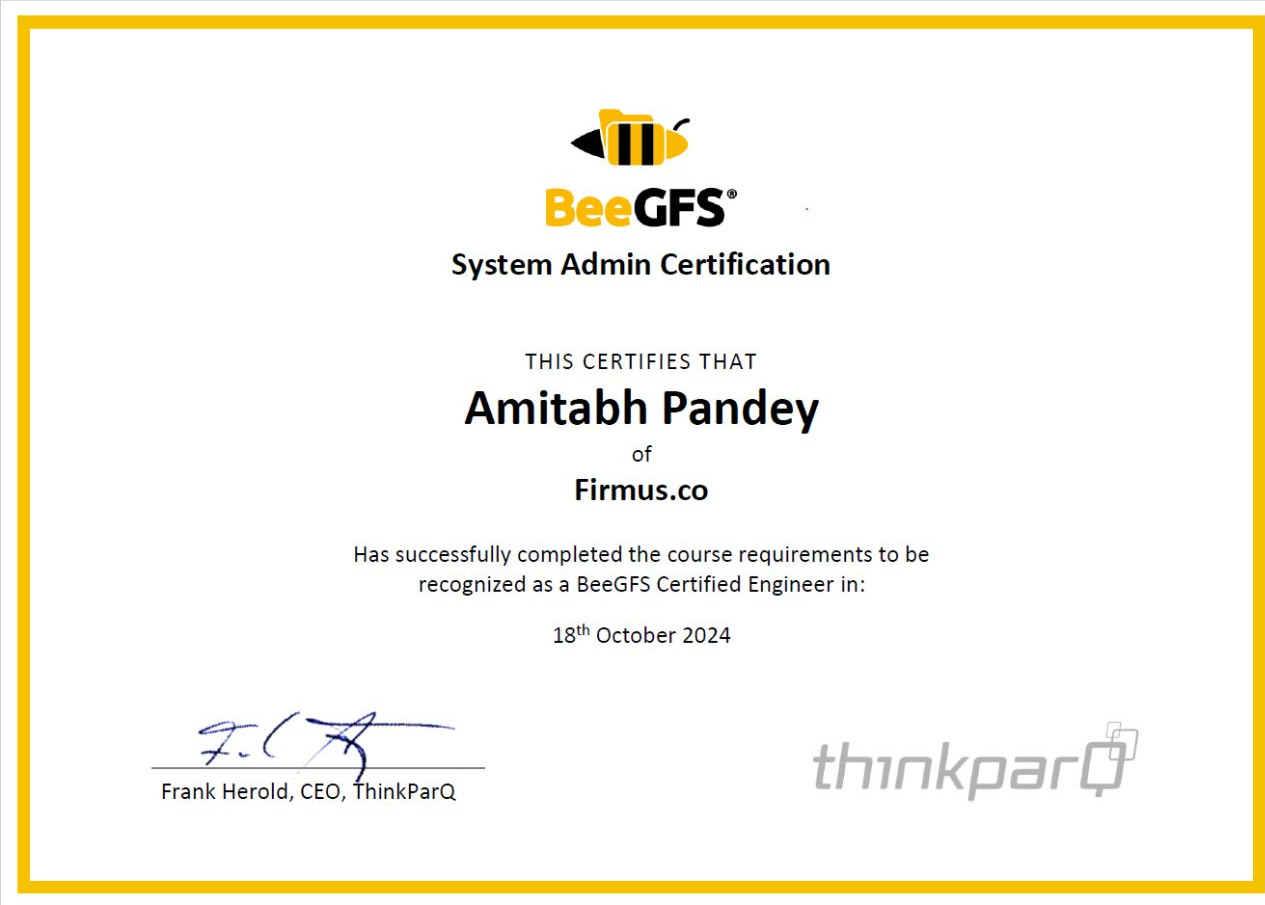
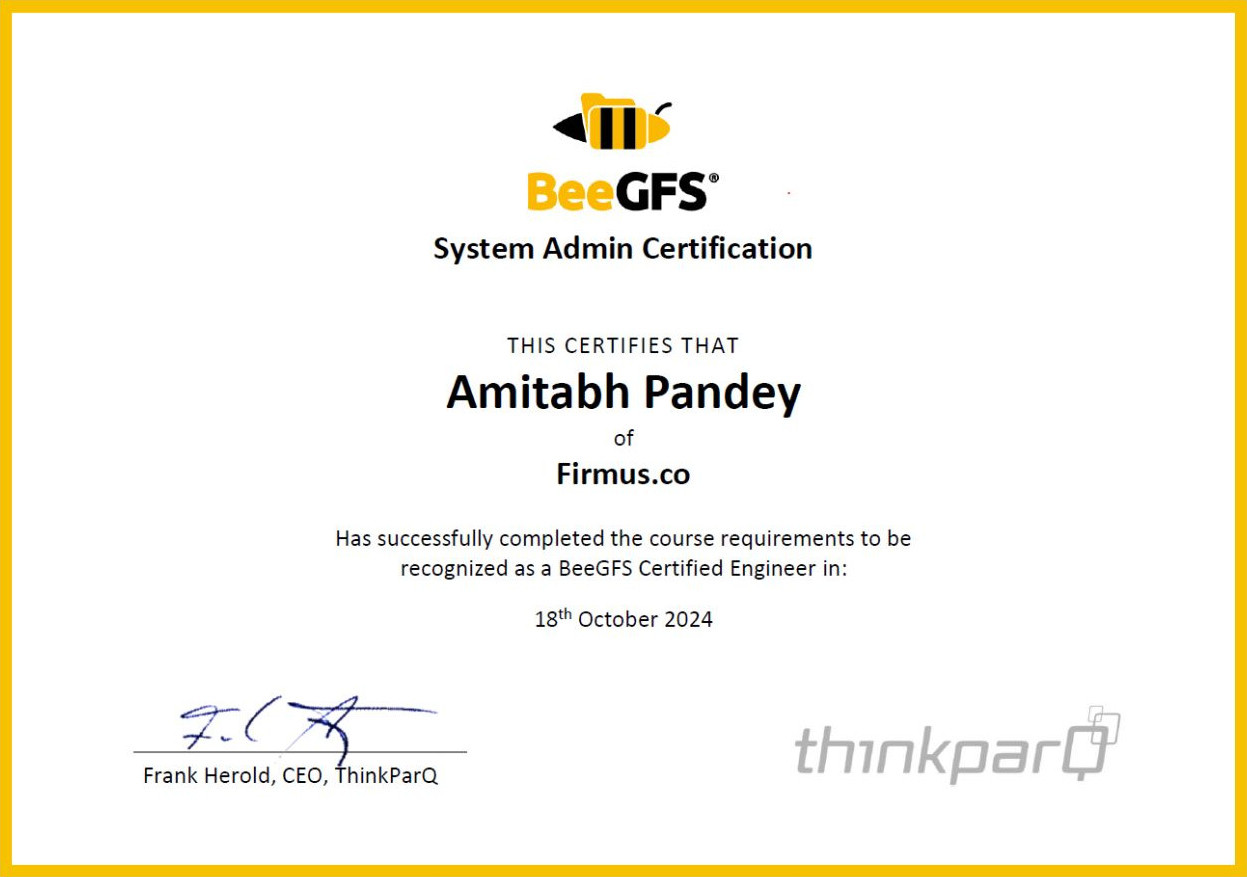
Certificates: Bright wall, gold frames, shine and verified seal
- Bright Computing full-width certificate wall (4 certificates) with
  gallery lightbox (prev/next, arrow keys, captions)
- Lightbox sized to the image; cropped Bright and BeeGFS certificates
- Gold frame on dark spotlight, shine sweep and gold verified seal
- Bright Computing logo variant for dark mode

Claude-Session: https://claude.ai/code/session_01EoHFDgtaDYdhuX6W5s85aN

diff --git a/index.html b/index.html
@@ -2871,6 +2871,71 @@ html[data-theme="dark"] .s6-cl-lg { border-color: rgb(255 255 255 / .12); }
 .cert-lb-x { position: absolute; top: 16px; right: 18px; width: 44px; height: 44px; border-radius: 50%; border: 0; background: #fff; color: #0d1b33; font: 700 18px/1 system-ui, sans-serif; cursor: pointer; }
 .cert-lb-x:focus-visible { outline: 3px solid var(--blue); outline-offset: 2px; }
 @media (prefers-reduced-motion: reduce) { .hpc-cert { transition: none; } .hpc:hover .hpc-cert { transform: rotate(-1.5deg); } }
+
+/* v74 Bright: full-width certificate wall; BeeGFS + WEKA as a pair above */
+.hpc-grid:has(.hpc.is-wall) { grid-template-columns: repeat(2, minmax(0, 1fr)); }
+.hpc.is-wall { grid-column: 1 / -1; display: grid; grid-template-columns: minmax(0, .8fr) minmax(0, 2fr); }
+.hpc.is-wall .hpc-body { justify-content: center; padding: 22px 24px; }
+.hpc-wall-logo { display: block; width: 170px; height: auto; margin: -26px 0 -10px -16px; }
+.hpc-wall-meta { margin-top: 4px; font: 500 12px var(--font-mono); letter-spacing: .04em; color: var(--blue); }
+.hpc-wall-gal { display: grid; grid-template-columns: repeat(4, minmax(0, 1fr)); gap: 14px; align-items: end; padding: 22px 18px; border-left: 1px solid var(--line-2); background: radial-gradient(circle at 50% 45%, var(--card) 25%, var(--blue-wash-2)); }
+.hpc-wall-gal figure { margin: 0; display: flex; flex-direction: column; gap: 9px; min-width: 0; }
+.hpc-wall-gal .hpc-cert { width: 100%; margin: 0; transform: none; box-shadow: 0 10px 22px -14px rgb(15 23 42 / .55); }
+.hpc.is-wall:hover .hpc-cert { transform: none; }
+.hpc-wall-gal .hpc-cert:hover { transform: translateY(-3px); box-shadow: 0 16px 30px -16px rgb(15 23 42 / .6); }
+.hpc-wall-gal figcaption { display: flex; flex-direction: column; gap: 1px; font-size: 13px; line-height: 1.3; }
+.hpc-wall-gal figcaption b { color: var(--ink); }
+.hpc-wall-gal figcaption span { font: 500 11.5px var(--font-mono); color: var(--blue); }
+@media (max-width: 1000px) { .hpc.is-wall { grid-template-columns: minmax(0, 1fr); } .hpc-wall-gal { border-left: 0; border-top: 1px solid var(--line-2); } }
+@media (max-width: 760px) { .hpc-grid:has(.hpc.is-wall) { grid-template-columns: minmax(0, 1fr); } .hpc-wall-gal { grid-template-columns: repeat(2, minmax(0, 1fr)); padding: 18px 16px; } }
+/* gallery controls in the certificate viewer */
+.cert-lb figure { margin: 0; display: flex; flex-direction: column; align-items: center; gap: 10px; }
+.cert-lb figcaption { color: #e2e8f0; font: 600 14px var(--font-body); text-align: center; }
+.cert-lb figcaption:empty { display: none; }
+.cert-lb-nav { position: absolute; top: 50%; translate: 0 -50%; width: 46px; height: 46px; border-radius: 50%; border: 0; background: #fff; color: #0d1b33; font: 700 22px/1 system-ui, sans-serif; cursor: pointer; }
+.cert-lb-nav[hidden] { display: none; }
+.cert-lb-prev { left: 16px; } .cert-lb-next { right: 16px; }
+.cert-lb-nav:focus-visible { outline: 3px solid var(--blue); outline-offset: 2px; }
+
+/* v74b tighter spacing across the Bright certificate wall */
+.hpc-wall-gal { gap: 10px; padding: 18px 10px; }
+@media (max-width: 760px) { .hpc-wall-gal { gap: 10px; padding: 16px 10px; } }
+
+/* v74c viewer: size the box to the certificate itself (no white side bands) */
+.cert-lb img { width: auto; height: auto; max-width: min(960px, 92vw); max-height: 82vh; object-fit: initial; background: none; }
+
+/* v74d Bright wall: uniform thumbnails, tops aligned, equal space above/below */
+.hpc-wall-gal { align-items: start; align-content: center; padding-top: 18px; padding-bottom: 18px; }
+.hpc-wall-gal .hpc-cert { aspect-ratio: 1133 / 779; overflow: hidden; }
+.hpc-wall-gal .hpc-cert img { width: 100%; height: 100%; object-fit: cover; object-position: center; }
+
+/* v75 certificates: F4 gold frame on dark spotlight + F5 shine sweep + F12 gold verified seal */
+.hpc-media.is-cert, .hpc-wall-gal { background: radial-gradient(70% 95% at 50% 0, #1e3a8a, #050a17 72%); border-color: #0b1226; }
+.hpc-media.is-cert { border-bottom-color: #0b1226; }
+.hpc-cert { position: relative; padding: 5px; border-radius: 5px; background: linear-gradient(135deg, #fde68a, #b45309 35%, #fef3c7 50%, #a16207 75%, #fde68a); box-shadow: 0 20px 40px -18px #000, 0 0 0 1px rgb(255 255 255 / .08); }
+.hpc-cert img { border-radius: 2px; }
+.hpc-wall-gal .hpc-cert { aspect-ratio: auto; overflow: visible; box-shadow: 0 20px 40px -18px #000, 0 0 0 1px rgb(255 255 255 / .08); }
+.hpc-wall-gal .hpc-cert img { aspect-ratio: 1133 / 779; height: auto; object-fit: cover; }
+.hpc-cert::before { content: ""; position: absolute; inset: 5px; z-index: 1; border-radius: 2px; pointer-events: none; background: linear-gradient(115deg, transparent 40%, rgb(255 255 255 / .7) 50%, transparent 60%) no-repeat; background-size: 250% 100%; background-position: 160% 0; }
+.hpc-cert::after { content: "\2713"; position: absolute; right: -9px; top: -9px; z-index: 2; width: 28px; height: 28px; display: grid; place-items: center; border-radius: 50%; color: #fff; font: 800 13px/1 var(--font-body); background: radial-gradient(circle at 35% 35%, #fde68a, #d97706 60%, #92400e); box-shadow: 0 0 0 2.5px #fff, 0 6px 12px -4px rgb(0 0 0 / .5); }
+.hpc-wall-gal figcaption b { color: #fff; }
+.hpc-wall-gal figcaption span { color: #facc15; }
+.hpc-wall-gal .hpc-cert:hover, .hpc.is-wall .hpc-cert:hover { transform: translateY(-4px); box-shadow: 0 26px 44px -18px #000, 0 0 22px -6px rgb(250 204 21 / .45); }
+@media (prefers-reduced-motion: no-preference) {
+  .hpc-cert::before { animation: cert-shine 6s ease-in-out infinite; }
+  .hpc-wall-gal figure:nth-child(2) .hpc-cert::before { animation-delay: .7s; }
+  .hpc-wall-gal figure:nth-child(3) .hpc-cert::before { animation-delay: 1.4s; }
+  .hpc-wall-gal figure:nth-child(4) .hpc-cert::before { animation-delay: 2.1s; }
+}
+@keyframes cert-shine { 0%, 60% { background-position: 160% 0; } 90%, 100% { background-position: -60% 0; } }
+.hpc-cert { box-sizing: border-box; }
+.hpc-wall-gal { gap: 18px; padding: 24px 22px; }
+@media (max-width: 760px) { .hpc-wall-gal { gap: 18px; padding: 22px 18px; } }
+
+/* v76b Bright logo: white-text variant in dark mode */
+.hpc-wall-logo.is-dark { display: none; }
+html[data-theme="dark"] .hpc-wall-logo:not(.is-dark) { display: none; }
+html[data-theme="dark"] .hpc-wall-logo.is-dark { display: block; }
 </style>
 <script>document.documentElement.classList.add("js-brand");</script>
 </head>
@@ -3376,7 +3441,7 @@ html[data-theme="dark"] .s6-cl-lg { border-color: rgb(255 255 255 / .12); }
                 <div class="hpc-grid">
                     <article class="hpc">
                         <!-- Official product logo; a public engineer badge was not available. -->
-                        <div class="hpc-media is-cert"><button type="button" class="hpc-cert" data-cert="images/certs/beegfs-certificate.jpg" aria-label="View BeeGFS certificate full size"><img src="images/certs/beegfs-certificate.jpg" alt="BeeGFS System Admin Certification for Amitabh Pandey, 18 October 2024" width="1265" height="905" loading="lazy" decoding="async" /></button><span class="hpc-chip"><img src="badges/beegfs-logo.png" alt="BeeGFS logo" width="158" height="100" loading="lazy" /></span></div>
+                        <div class="hpc-media is-cert"><button type="button" class="hpc-cert" data-cert="images/certs/beegfs-certificate.jpg" aria-label="View BeeGFS certificate full size"><img src="images/certs/beegfs-certificate.jpg" alt="BeeGFS System Admin Certification for Amitabh Pandey, 18 October 2024" width="1247" height="877" loading="lazy" decoding="async" /></button><span class="hpc-chip"><img src="badges/beegfs-logo.png" alt="BeeGFS logo" width="158" height="100" loading="lazy" /></span></div>
                         <div class="hpc-body">
                             <span class="cert-issuer">ThinkParQ</span>
                             <h4>BeeGFS</h4>
@@ -3401,19 +3466,20 @@ html[data-theme="dark"] .s6-cl-lg { border-color: rgb(255 255 255 / .12); }
                             </ul>
                         </div>
                     </article>
-                    <article class="hpc">
-                        <!-- Official issuer logo for the four historical Bright certifications. -->
-                        <div class="hpc-media is-wide"><img src="badges/bright-computing-logo.svg" alt="Bright Computing logo" width="300" height="169" loading="lazy" /></div>
+                    <article class="hpc is-wall">
                         <div class="hpc-body">
+                            <img class="hpc-wall-logo" src="badges/bright-computing-logo.svg" alt="Bright Computing logo" width="300" height="169" loading="lazy" />
+                            <img class="hpc-wall-logo is-dark" src="badges/bright-computing-logo-dark.svg" alt="" aria-hidden="true" width="300" height="169" loading="lazy" />
                             <span class="cert-issuer">Bright Computing · now NVIDIA</span>
                             <h4>Bright Cluster Manager</h4>
                             <p>HPC cluster provisioning and management, now NVIDIA Base Command Manager.</p>
-                            <ul class="hpc-items is-two">
-                                <li><b>Basic Admin</b><span>Aug 2021</span></li>
-                                <li><b>OpenStack</b><span>Aug 2021</span></li>
-                                <li><b>Data Science</b><span>Aug 2021</span></li>
-                                <li><b>Bright 8.0 Admin</b><span>Apr 2020</span></li>
-                            </ul>
+                            <span class="hpc-wall-meta">4 certifications · 2020 – 2021</span>
+                        </div>
+                        <div class="hpc-wall-gal">
+                            <figure><button type="button" class="hpc-cert" data-cert="images/certs/bright-admin-2021.jpg" data-group="bright" data-cap="Bright Cluster Manager Basic Administration · Aug 2021" aria-label="View certificate: Bright Cluster Manager Basic Administration"><img src="images/certs/bright-admin-2021.jpg" alt="Bright Cluster Manager Basic Administration certificate, Aug 2021" width="1133" height="779" loading="lazy" decoding="async" /></button><figcaption><b>Basic Admin</b><span>Aug 2021</span></figcaption></figure>
+                            <figure><button type="button" class="hpc-cert" data-cert="images/certs/bright-openstack-2021.jpg" data-group="bright" data-cap="Bright Cluster Manager for OpenStack · Aug 2021" aria-label="View certificate: Bright Cluster Manager for OpenStack"><img src="images/certs/bright-openstack-2021.jpg" alt="Bright Cluster Manager for OpenStack certificate, Aug 2021" width="1133" height="779" loading="lazy" decoding="async" /></button><figcaption><b>OpenStack</b><span>Aug 2021</span></figcaption></figure>
+                            <figure><button type="button" class="hpc-cert" data-cert="images/certs/bright-data-science-2021.jpg" data-group="bright" data-cap="Bright Cluster Manager for Data Science · Aug 2021" aria-label="View certificate: Bright Cluster Manager for Data Science"><img src="images/certs/bright-data-science-2021.jpg" alt="Bright Cluster Manager for Data Science certificate, Aug 2021" width="1133" height="779" loading="lazy" decoding="async" /></button><figcaption><b>Data Science</b><span>Aug 2021</span></figcaption></figure>
+                            <figure><button type="button" class="hpc-cert" data-cert="images/certs/bright-8-admin-2020.jpg" data-group="bright" data-cap="Bright 8.0 Basic Administration · Apr 2020" aria-label="View certificate: Bright 8.0 Basic Administration"><img src="images/certs/bright-8-admin-2020.jpg" alt="Bright 8.0 Basic Administration certificate, Apr 2020" width="1133" height="779" loading="lazy" decoding="async" /></button><figcaption><b>Bright 8.0 Admin</b><span>Apr 2020</span></figcaption></figure>
                         </div>
                     </article>
                 </div>
@@ -4283,20 +4349,29 @@ const els=[document.querySelector('.hr-rib'),...document.querySelectorAll('.hs-p
     let t; addEventListener('resize', () => { cancelAnimationFrame(t); t = requestAnimationFrame(fit); });
 })();
 </script>
-<div class="cert-lb" id="cert-lb" role="dialog" aria-modal="true" aria-label="Certificate" hidden><button type="button" class="cert-lb-x" aria-label="Close">&#10005;</button><img alt="" /></div>
+<div class="cert-lb" id="cert-lb" role="dialog" aria-modal="true" aria-label="Certificate" hidden><button type="button" class="cert-lb-x" aria-label="Close">&#10005;</button><button type="button" class="cert-lb-nav cert-lb-prev" aria-label="Previous certificate" hidden>&#8249;</button><figure><img alt="" /><figcaption></figcaption></figure><button type="button" class="cert-lb-nav cert-lb-next" aria-label="Next certificate" hidden>&#8250;</button></div>
 <script>
-/* Certificate viewer: click a certificate to see it full size */
+/* Certificate viewer: click a certificate to see it full size; grouped certificates get previous/next */
 (() => {
     const lb = document.getElementById('cert-lb'); if (!lb) return;
-    const img = lb.querySelector('img'), x = lb.querySelector('.cert-lb-x'); let last = null;
+    const img = lb.querySelector('img'), cap = lb.querySelector('figcaption'), x = lb.querySelector('.cert-lb-x');
+    const pv = lb.querySelector('.cert-lb-prev'), nx = lb.querySelector('.cert-lb-next');
+    let list = [], k = 0, last = null;
+    const show = () => { const b = list[k]; img.src = b.dataset.cert; img.alt = b.querySelector('img')?.alt || 'Certificate';
+        cap.textContent = b.dataset.cap ? b.dataset.cap + (list.length > 1 ? '  ·  ' + (k + 1) + ' / ' + list.length : '') : '';
+        pv.hidden = nx.hidden = list.length < 2; };
     const close = () => { lb.hidden = true; document.body.style.overflow = ''; if (last) last.focus(); };
     document.querySelectorAll('[data-cert]').forEach((b) => b.addEventListener('click', () => {
-        last = b; img.src = b.dataset.cert; img.alt = b.querySelector('img')?.alt || 'Certificate';
-        lb.hidden = false; document.body.style.overflow = 'hidden'; x.focus();
+        last = b; const g = b.dataset.group;
+        list = g ? [...document.querySelectorAll('[data-cert][data-group="' + g + '"]')] : [b]; k = list.indexOf(b);
+        show(); lb.hidden = false; document.body.style.overflow = 'hidden'; x.focus();
     }));
+    pv.addEventListener('click', () => { k = (k + list.length - 1) % list.length; show(); });
+    nx.addEventListener('click', () => { k = (k + 1) % list.length; show(); });
     x.addEventListener('click', close);
     lb.addEventListener('click', (e) => { if (e.target === lb) close(); });
-    addEventListener('keydown', (e) => { if (e.key === 'Escape' && !lb.hidden) close(); });
+    addEventListener('keydown', (e) => { if (lb.hidden) return; if (e.key === 'Escape') close();
+        if (e.key === 'ArrowLeft' && !pv.hidden) pv.click(); if (e.key === 'ArrowRight' && !nx.hidden) nx.click(); });
 })();
 </script>
 </body>
